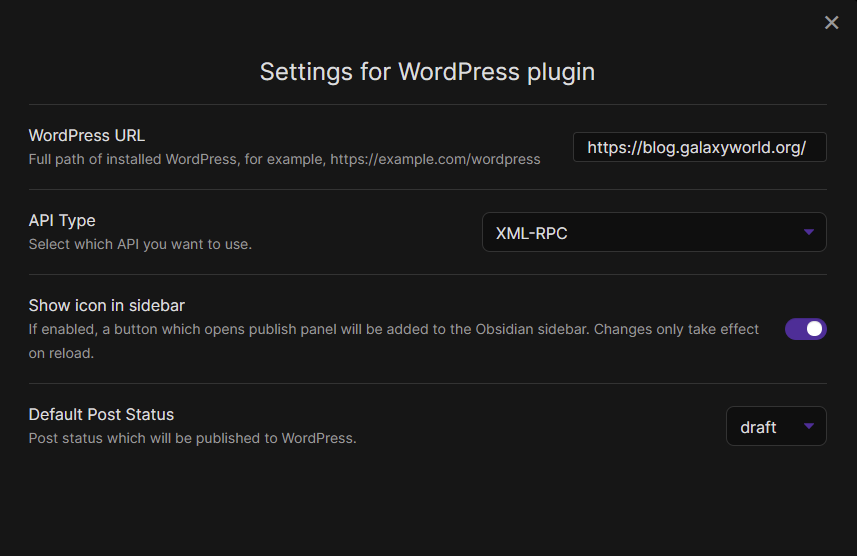
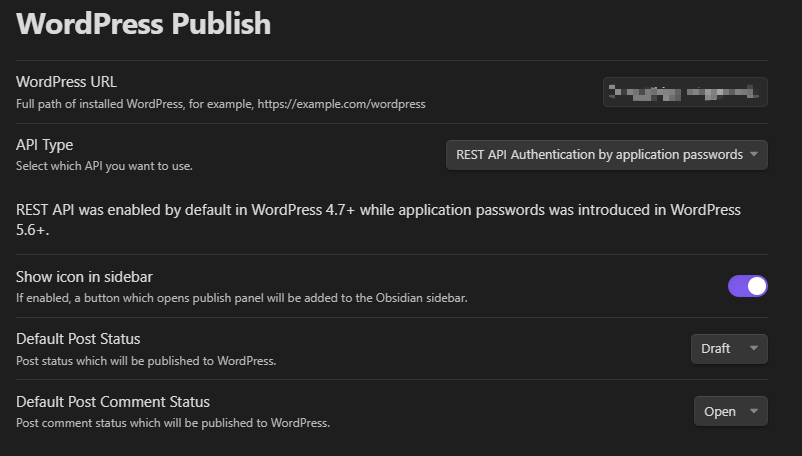
Update docs.

diff --git a/docs/index.md b/docs/index.md
@@ -16,16 +16,17 @@ You can find settings as following:
 
 Let's say a WordPress could be access by https://www.mywp.com.
 
-* **WordPress URL**: A full path of WordPress. It should be https://www.mywp.com.
+* **WordPress URL**: A full path of WordPress. It should be https://www.mywp.com. Note that if your site does not support URL rewrite, you may add `/index.php` appending to your domain.
 * **API Type**: At this version we support following API types:
-  * XML-RPC: Enabled by default but some host may disable it fot safety problems.
-  * REST API Authentication by miniOrange: REST API is enabled by default
-    but need plugin miniOrange installed in order to protect core writable APIs.
+  * XML-RPC: Enabled by default but some hosts may disable it for safety problems.
+  * REST API Authentication by miniOrange: REST API is enabled by default since WordPress 4.7. An extra plugin named miniOrange is needed to be installed and enabled in order to protect core writable APIs.
+  * REST API Authentication by application password: REST API is enabled by default since WordPress 4.7 while application password was introduced in WordPress 5.6. If you are OK with WordPress 5.6, this is recommended as no plugin is needed.
 
-  **Note** The mentioned plugins muse be installed in WordPress and configured correctly as follows.
+  **Note** The mentioned plugins miniOrange must be installed and enabled in WordPress server and configured correctly as following steps.
 * **Show icon in sidebar**: Show WordPress logo in sidebar so you could click it
-  to show a `Publish` pane in right side of application.
+  to publish current note.
 * **Default Post Status**: Default post status when publishing.
+* **Default Post Comment Status**: Default comment status when publishing.
 
 ## How to config WordPress plugins
 
@@ -42,6 +43,22 @@ In the next page, select `Username & Password with Base64 Encoding` then `Next`.
 Finally, click `Finish`.
 
 ![miniOrange](/obsidian-wordpress/assets/images/wp-miniOrange-3.png)
+
+## How to config application passwords
+
+Application passwords was introduced in WordPress 5.6.
+
+You need to login WordPress and navigate to 'Profile' page.
+
+![applicationPasswords](/obsidian-wordpress/assets/images/wp-app-pwd-1.png)
+
+You could use any application name you want, then click 'Add New Application Password' button.
+
+![applicationPasswords](/obsidian-wordpress/assets/images/wp-app-pwd-2.png)
+
+Here you need to save generated password as it only shows once. Spaces in the password will be ignored by WordPress automatically.
+
+Then you could use your login username and the application password in Obsidian WordPress plugin.
 
 ## How to use with WordPress.com
 

diff --git a/README.md b/README.md
@@ -19,11 +19,14 @@ The document will be published to the WordPress URL that you set.
 
 This plugin uses XML-RPC or REST protocol to publish to WordPress.
 
-XML-RPC is enabled by default but some may disable it because of security problems.
-And some shared hosts might disable XML-RPC by default which you have
-no way to enable it. So this won't work if XML-RPC is disabled.
+XML-RPC is enabled by default but some sites may disable it because of
+security problems. While some shared hosts might disable XML-RPC by default
+which you have no way to enable it. So this won't work if XML-RPC is disabled.
 
-REST is enabled by default but you should install some extra plugins
-in order to protect writable APIs.
+REST API is enabled since WordPress 4.7 by default. Some REST API
+need extra actions in order to protect writable APIs.
+Traditionally, it is done by installing plugins. WordPress 5.6 was introduced
+application passwords to do similar things. So if you are OK with WordPress 5.6,
+application passwords is preferred as no plugin in needed.
 
-Read [this page](https://devbean.github.io/obsidian-wordpress) for details.
+Read [this page](https://devbean.github.io/obsidian-wordpress) for more information.
